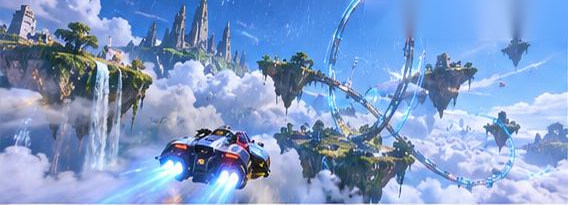
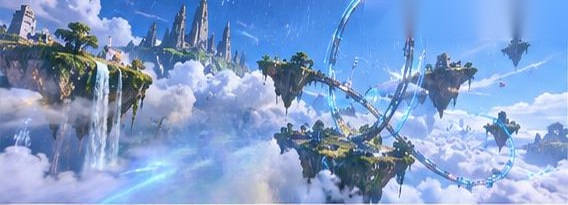
fix(assets): sync vehicle-free teaser scenes and rules from develop

Changed region(s): [[0.2394, 0.4976, 0.4789, 1.0]]

diff --git a/CLAUDE.md b/CLAUDE.md
@@ -79,7 +79,6 @@ Applies to `public/track-teasers/<track-slug>.jpg` in the home/Coming Soon/track
 
 - Final committed asset **must decode as an actual 568 × 205 pixel JPEG** (not merely display at that CSS size); use a consistent high-quality cinematic futuristic racing illustration style. The 3× rule for transparent UI icons does not replace this exact JPEG contract.
 - **Scene only:** never burn in track names, headings, descriptions, buttons, labels, logos, watermarks, captions, or any other text. UI copy belongs in HTML/Vue, not inside the image.
-- **Edge-to-edge scene:** no white/blank borders, padding, letterbox bars, empty canvas corners, or fragments of adjacent maps. Inspect the top/bottom rows and all four edges for seams, other map strips and unwanted overlays. Keep the intended vehicle, road and landmark visibly framed; do not crop off significant content to hide a defect.
-- For the five-track 2026-11-05 correction, **preserve the original artwork, viewpoint, colors and subject** for Monsoon Ruins, Skyfall Archipelago, Stormline Megacity and Volcanic Crown; repair only text, seams and unwanted lower strips with source-faithful reconstruction. **Only Frostbite Canyon is authorized for a full redraw** to match those maps' original cinematic illustration style.
+- **Edge-to-edge scene:** no white/blank borders, padding, letterbox bars, empty canvas corners, or fragments of adjacent maps. Inspect the top/bottom rows and all four edges for seams, other map strips and unwanted overlays. Do not include vehicles, cars, wheels, boost flames or nitro trails in these static teaser JPEGs; keep the original road, terrain, structures and landmarks intact and uncropped.
+- For the five-track 2026-11-06 update: **Monsoon Ruins** must use the approved no-portrait, tropical rainforest/waterfalls/stone-bridge scene. For **Skyfall Archipelago, Stormline Megacity, Volcanic Crown and Frostbite Canyon**, remove only cars and their exhaust/trails from the existing GitHub teaser originals, using tightly-scoped inpainting; preserve all unmasked original scene pixels, viewpoint, colors, road and landmarks as closely as possible. Do not replace these four images with newly invented full-scene compositions. Fix any incidental black top-right seam on Volcanic Crown only if demonstrably an artifact.
 - Before committing, inspect each decoded JPEG at native 568 × 205 and compare against the source side by side; verify image format and dimensions with an executable check, ensure the image is readable in the real desktop/mobile track-selection UI and check that no unrelated source files changed. CI/test results and manual visual acceptance must be reported separately, never assumed.
-
